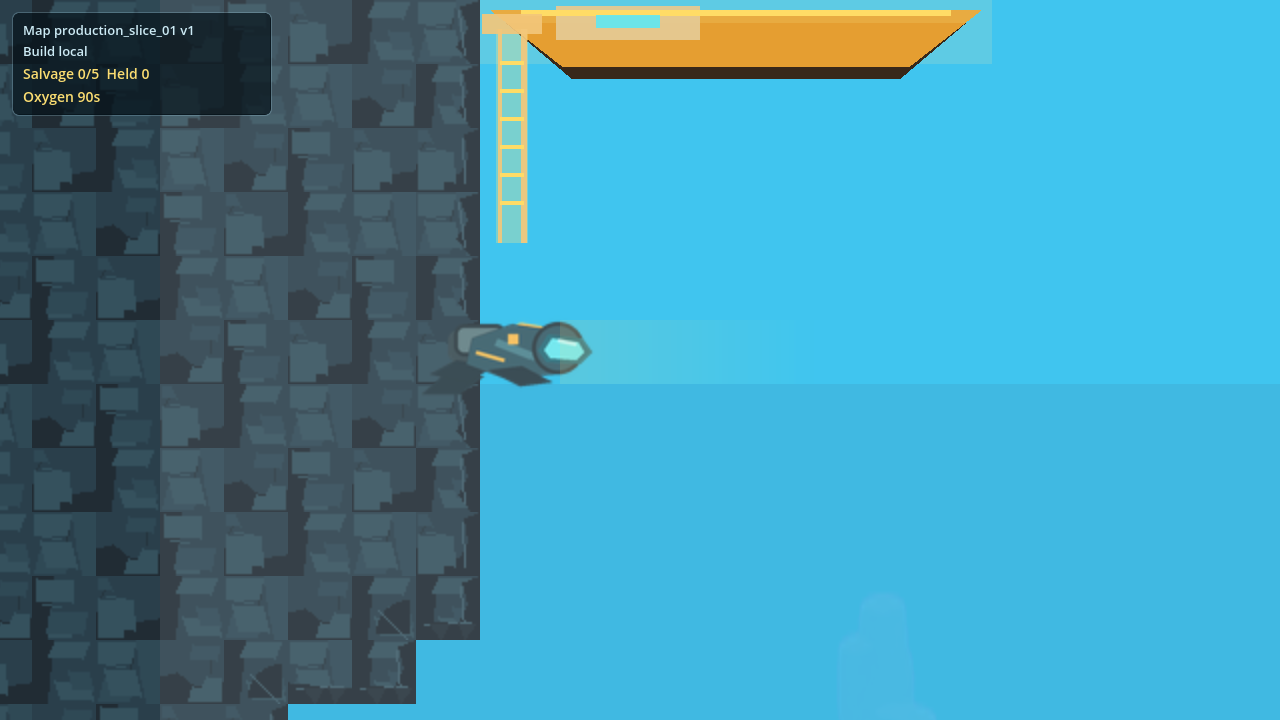
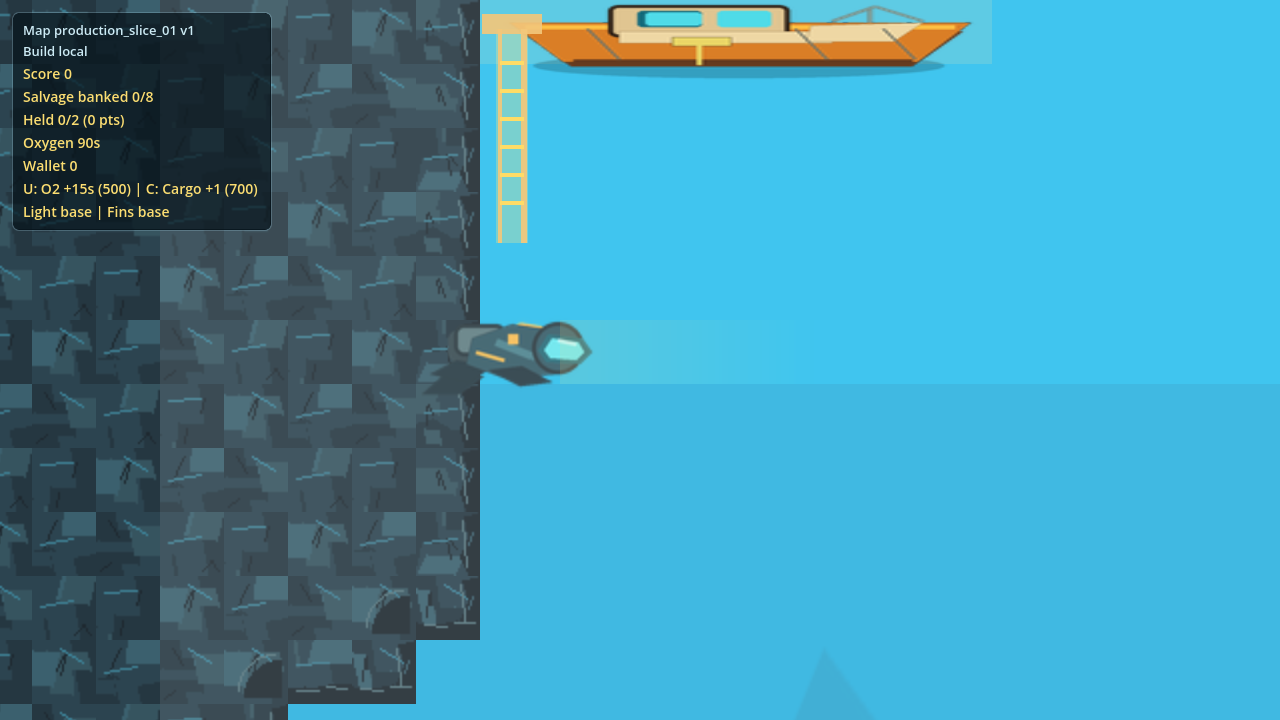
Prototype diver swim animation slice
Closes #448

diff --git a/tools/generate_player_sprite.py b/tools/generate_player_sprite.py
@@ -16,7 +16,9 @@ SPRITE_SIZE = (96, 64)
 SCALE = 4
 CANVAS_SIZE = (SPRITE_SIZE[0] * SCALE, SPRITE_SIZE[1] * SCALE)
 SPRITE_PATH = ASSET_DIR / "player_diver_01.png"
+SWIM_SHEET_PATH = ASSET_DIR / "player_diver_swim_01.png"
 REVIEW_PATH = REVIEW_DIR / "player_sprite_01_review.png"
+SWIM_REVIEW_PATH = REVIEW_DIR / "player_diver_swim_01_review.png"
 
 OUTLINE = (18, 35, 42, 255)
 SUIT = (31, 73, 86, 255)
@@ -52,38 +54,54 @@ def load_font(size: int) -> ImageFont.ImageFont:
         return ImageFont.load_default()
 
 
-def draw_diver() -> Image.Image:
+def offset_points(points: list[tuple[int, int]], offset: tuple[int, int]) -> list[tuple[int, int]]:
+    return [(x + offset[0], y + offset[1]) for x, y in points]
+
+
+def draw_diver(swim_phase: int = 0) -> Image.Image:
     image = Image.new("RGBA", CANVAS_SIZE, (0, 0, 0, 0))
     draw = ImageDraw.Draw(image, "RGBA")
+    phase = swim_phase % 4
+    body_bob = [0, 1, 0, -1][phase]
+    rear_fin_lift = [0, -2, 1, 2][phase]
+    lower_fin_lift = [0, 2, 1, -2][phase]
+    arm_lift = [0, -1, 0, 1][phase]
 
     # Back tank and hose.
-    draw.rounded_rectangle(rect((16, 21, 42, 37)), radius=5 * SCALE, fill=TANK_DARK)
-    draw.rounded_rectangle(rect((19, 18, 45, 34)), radius=5 * SCALE, fill=TANK, outline=OUTLINE, width=2 * SCALE)
-    draw.line(scaled([(43, 24), (52, 18), (64, 20)]), fill=ACCENT, width=2 * SCALE)
+    draw.rounded_rectangle(rect((16, 21 + body_bob, 42, 37 + body_bob)), radius=5 * SCALE, fill=TANK_DARK)
+    draw.rounded_rectangle(rect((19, 18 + body_bob, 45, 34 + body_bob)), radius=5 * SCALE, fill=TANK, outline=OUTLINE, width=2 * SCALE)
+    draw.line(scaled(offset_points([(43, 24), (52, 18), (64, 20)], (0, body_bob))), fill=ACCENT, width=2 * SCALE)
 
     # Flippers and trailing leg silhouette.
-    draw.polygon(scaled([(14, 43), (3, 53), (22, 53), (34, 44)]), fill=SUIT_DARK, outline=OUTLINE)
-    draw.polygon(scaled([(20, 36), (7, 43), (26, 47), (39, 39)]), fill=SUIT_DARK, outline=OUTLINE)
+    draw.polygon(scaled(offset_points([(14, 43), (3, 53), (22, 53), (34, 44)], (0, lower_fin_lift))), fill=SUIT_DARK, outline=OUTLINE)
+    draw.polygon(scaled(offset_points([(20, 36), (7, 43), (26, 47), (39, 39)], (0, rear_fin_lift))), fill=SUIT_DARK, outline=OUTLINE)
 
     # Main body, arm, and head face right by default.
     draw.polygon(
-        scaled([(28, 25), (48, 18), (69, 21), (82, 31), (70, 43), (44, 45), (25, 38)]),
+        scaled(offset_points([(28, 25), (48, 18), (69, 21), (82, 31), (70, 43), (44, 45), (25, 38)], (0, body_bob))),
         fill=SUIT,
         outline=OUTLINE,
     )
-    draw.line(scaled([(40, 27), (58, 34), (74, 34)]), fill=SUIT_LIGHT, width=4 * SCALE)
-    draw.polygon(scaled([(36, 41), (52, 49), (68, 47), (53, 39)]), fill=SUIT_DARK, outline=OUTLINE)
+    draw.line(scaled(offset_points([(40, 27), (58, 34), (74, 34)], (0, body_bob + arm_lift))), fill=SUIT_LIGHT, width=4 * SCALE)
+    draw.polygon(scaled(offset_points([(36, 41), (52, 49), (68, 47), (53, 39)], (0, body_bob - arm_lift))), fill=SUIT_DARK, outline=OUTLINE)
 
-    draw.ellipse(rect((58, 17, 84, 43)), fill=SUIT, outline=OUTLINE, width=2 * SCALE)
-    draw.polygon(scaled([(66, 23), (83, 25), (88, 32), (82, 38), (65, 37), (61, 31)]), fill=VISOR_DARK)
-    draw.polygon(scaled([(68, 25), (81, 27), (84, 32), (80, 36), (67, 35), (64, 31)]), fill=VISOR)
-    draw.line(scaled([(71, 26), (80, 28)]), fill=(191, 255, 255, 230), width=2 * SCALE)
+    draw.ellipse(rect((58, 17 + body_bob, 84, 43 + body_bob)), fill=SUIT, outline=OUTLINE, width=2 * SCALE)
+    draw.polygon(scaled(offset_points([(66, 23), (83, 25), (88, 32), (82, 38), (65, 37), (61, 31)], (0, body_bob))), fill=VISOR_DARK)
+    draw.polygon(scaled(offset_points([(68, 25), (81, 27), (84, 32), (80, 36), (67, 35), (64, 31)], (0, body_bob))), fill=VISOR)
+    draw.line(scaled(offset_points([(71, 26), (80, 28)], (0, body_bob))), fill=(191, 255, 255, 230), width=2 * SCALE)
 
     # Small warm points keep continuity with boat/prop accents.
-    draw.rectangle(rect((46, 23, 51, 28)), fill=ACCENT)
-    draw.line(scaled([(30, 32), (44, 36)]), fill=ACCENT, width=2 * SCALE)
+    draw.rectangle(rect((46, 23 + body_bob, 51, 28 + body_bob)), fill=ACCENT)
+    draw.line(scaled(offset_points([(30, 32), (44, 36)], (0, body_bob))), fill=ACCENT, width=2 * SCALE)
 
     return downsample(image)
+
+
+def draw_swim_sheet() -> Image.Image:
+    sheet = Image.new("RGBA", (SPRITE_SIZE[0] * 4, SPRITE_SIZE[1]), (0, 0, 0, 0))
+    for phase in range(4):
+        sheet.alpha_composite(draw_diver(phase), (SPRITE_SIZE[0] * phase, 0))
+    return sheet
 
 
 def save_review(sprite: Image.Image) -> None:
@@ -122,6 +140,44 @@ def save_review(sprite: Image.Image) -> None:
     review.convert("RGB").save(REVIEW_PATH)
 
 
+def save_swim_review(sheet: Image.Image) -> None:
+    review = Image.new("RGBA", (760, 380), PANEL)
+    draw = ImageDraw.Draw(review)
+    title_font = load_font(18)
+    label_font = load_font(13)
+
+    draw.text((20, 16), "Player Diver Swim 01", fill=TEXT, font=title_font)
+    draw.text((20, 42), "4x 96x64 right-facing frames; runtime flips Body only", fill=TEXT, font=label_font)
+
+    water_panel = Image.new("RGBA", (SPRITE_SIZE[0] * 4 + 32, SPRITE_SIZE[1] + 40), WATER_REVIEW)
+    water_panel.alpha_composite(sheet, (16, 16))
+    review.alpha_composite(water_panel, (20, 76))
+    draw.rectangle((20, 76, 20 + water_panel.width - 1, 76 + water_panel.height - 1), outline=(126, 158, 168, 220), width=1)
+    draw.text((26, 184), "actual sheet", fill=TEXT, font=label_font)
+
+    for phase in range(4):
+        frame = sheet.crop((phase * SPRITE_SIZE[0], 0, (phase + 1) * SPRITE_SIZE[0], SPRITE_SIZE[1]))
+        enlarged = frame.resize((SPRITE_SIZE[0] * 2, SPRITE_SIZE[1] * 2), Image.Resampling.NEAREST)
+        x = 20 + phase * 180
+        y = 230
+        review.alpha_composite(enlarged, (x, y))
+        origin = (x + SPRITE_SIZE[0], y + SPRITE_SIZE[1])
+        collision_half = (26, 18)
+        draw.rectangle(
+            (
+                origin[0] - collision_half[0],
+                origin[1] - collision_half[1],
+                origin[0] + collision_half[0],
+                origin[1] + collision_half[1],
+            ),
+            outline=COLLISION,
+            width=1,
+        )
+        draw.text((x, y - 18), "frame %d" % phase, fill=TEXT, font=label_font)
+
+    review.convert("RGB").save(SWIM_REVIEW_PATH)
+
+
 def main() -> int:
     ASSET_DIR.mkdir(parents=True, exist_ok=True)
     REVIEW_DIR.mkdir(parents=True, exist_ok=True)
@@ -132,6 +188,13 @@ def main() -> int:
 
     save_review(sprite)
     print(f"Wrote {REVIEW_PATH.relative_to(ROOT)}")
+
+    swim_sheet = draw_swim_sheet()
+    swim_sheet.save(SWIM_SHEET_PATH)
+    print(f"Wrote {SWIM_SHEET_PATH.relative_to(ROOT)}")
+
+    save_swim_review(swim_sheet)
+    print(f"Wrote {SWIM_REVIEW_PATH.relative_to(ROOT)}")
     return 0
 
 

diff --git a/docs/current/DIVER_ANIMATION_PLAN.md b/docs/current/DIVER_ANIMATION_PLAN.md
@@ -8,7 +8,7 @@ Issue: #447 `Plan diver animation states and sprite requirements`
 
 Use the current approved `player_diver_01.png` silhouette as the style anchor and add animation in small visual-only slices. Animation must not change the player `CharacterBody2D`, the 26x18 collision rectangle, movement tuning, camera behavior, light-cone semantics, map data, oxygen/cargo logic, or route validation.
 
-The first implementation should be #448: one readable swim/idle slice that improves motion and direction-change clarity without replacing the whole player art pass.
+The first implementation is #448: one readable swim/idle slice that improves motion and direction-change clarity without replacing the whole player art pass.
 
 ## Current Baseline
 
@@ -55,7 +55,7 @@ The first implementation should be #448: one readable swim/idle slice that impro
 
 The first animation asset should be a named committed sprite sheet or small frame set:
 
-- Preferred first asset: `assets/player/player_diver_swim_01.png`
+- First asset: `assets/player/player_diver_swim_01.png`
 - Suggested canvas per frame: 96x64, matching `player_diver_01.png`
 - Suggested first sheet: horizontal 4-frame strip, 384x64
 - Direction: author right-facing frames only; runtime flips the visual node for left-facing.
@@ -65,7 +65,7 @@ If generated, extend `tools/generate_player_sprite.py` or create a tiny sibling 
 
 ## Runtime Boundaries
 
-#448 should add only the smallest useful animation runtime:
+#448 adds only the smallest useful animation runtime:
 
 - Add `AnimatedSprite2D`, `SpriteFrames`, or a tiny visual helper if that fits Godot patterns cleanly.
 - Keep the current `Body` node path or provide a narrow compatibility wrapper if existing smokes/captures rely on it.
@@ -99,7 +99,7 @@ git diff --check
 
 ## Follow-Up Issue
 
-#448 is the active implementation follow-up for the smallest useful swim/idle animation slice. Do not create a larger animation epic until #448 proves the asset/runtime path.
+#448 implements the smallest useful swim/idle animation slice. Do not create a larger animation epic until this asset/runtime path has been reviewed in motion.
 
 ## Deferred
 

diff --git a/docs/current/PROJECT_CONTEXT.md b/docs/current/PROJECT_CONTEXT.md
@@ -463,7 +463,7 @@ Recent important commits:
 
 Use `docs/current/SIMPLE_DIVER_GAME_ROADMAP.md` as the current north star. The project should now finish the small diver game before planning the larger 2D Subnautica-like expansion.
 
-Pass 24 adds `deep_route_jellyfish_patrol`, one deterministic source-authored moving hazard as a dodge/timing beat on the lower-loop-to-deep-cache route. The next presentation step is the #447/#448 diver animation path in `docs/current/DIVER_ANIMATION_PLAN.md`: one small swim/idle slice, not a broad player redesign or gameplay rewrite.
+Pass 24 adds `deep_route_jellyfish_patrol`, one deterministic source-authored moving hazard as a dodge/timing beat on the lower-loop-to-deep-cache route. #447/#448 add the first diver swim/idle animation path in `docs/current/DIVER_ANIMATION_PLAN.md`: one small visual-only slice, not a broad player redesign or gameplay rewrite.
 
 Accepted constraints for the next batch:
 

diff --git a/docs/ART_BIBLE.md b/docs/ART_BIBLE.md
@@ -71,7 +71,7 @@ Normal gameplay previews should use small readable in-world props instead of abs
 
 ## Current Player Animation Direction
 
-The approved `assets/player/player_diver_01.png` remains the style and scale anchor for player animation. First animation work should add a small swim/idle slice with matching 96x64 frame bounds, right-facing source frames, runtime visual-only flipping, and no collision, camera, movement, map, oxygen, cargo, or light-cone behavior changes.
+The approved `assets/player/player_diver_01.png` remains the style and scale anchor for player animation. The first animation slice uses `assets/player/player_diver_swim_01.png`, a small swim/idle sheet with matching 96x64 frame bounds, right-facing source frames, runtime visual-only flipping, and no collision, camera, movement, map, oxygen, cargo, or light-cone behavior changes.
 
 ## Current Boat Entry Pass
 

diff --git a/docs/ASSET_MANIFEST.md b/docs/ASSET_MANIFEST.md
@@ -79,7 +79,7 @@ references/asset_reviews/prop_sprites_01_review.png
 | Asset | Size | Purpose | Status | Notes |
 |---|---:|---|---|---|
 | `assets/player/player_diver_01.png` | 96x64 | Player diver | approved | Implemented under #77 and accepted under #78 as the current prototype player-art baseline. |
-| `assets/player/player_diver_swim_01.png` | 384x64 | First 4-frame diver swim sheet | planned | Planned by #447 for #448; should preserve `player_diver_01.png` palette, silhouette, center, and collision relationship. |
+| `assets/player/player_diver_swim_01.png` | 384x64 | First 4-frame diver swim sheet | approved | Implemented under #448; preserves `player_diver_01.png` palette, silhouette, center, and collision relationship. |
 | `research_sub_01.png` | 192x96 | Player or support vehicle | planned | Side-view, clean illustrated style. |
 
 Review sheet:
